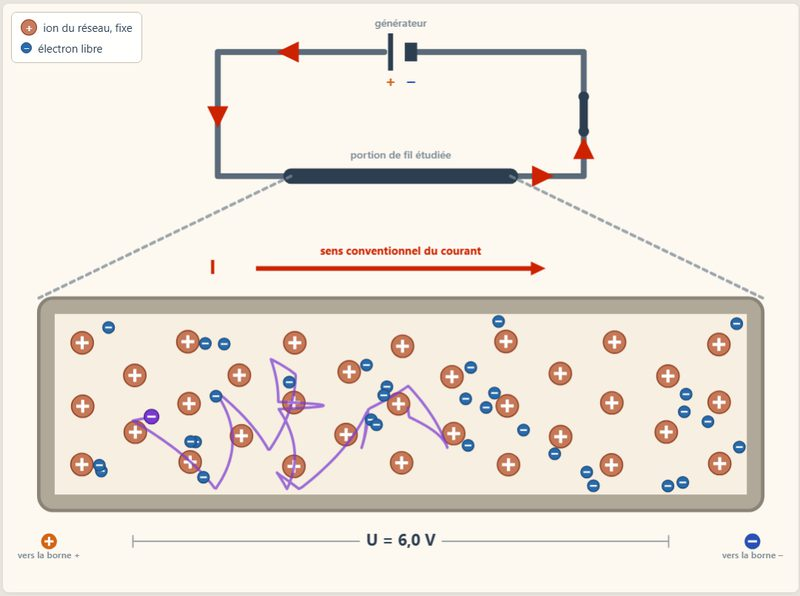
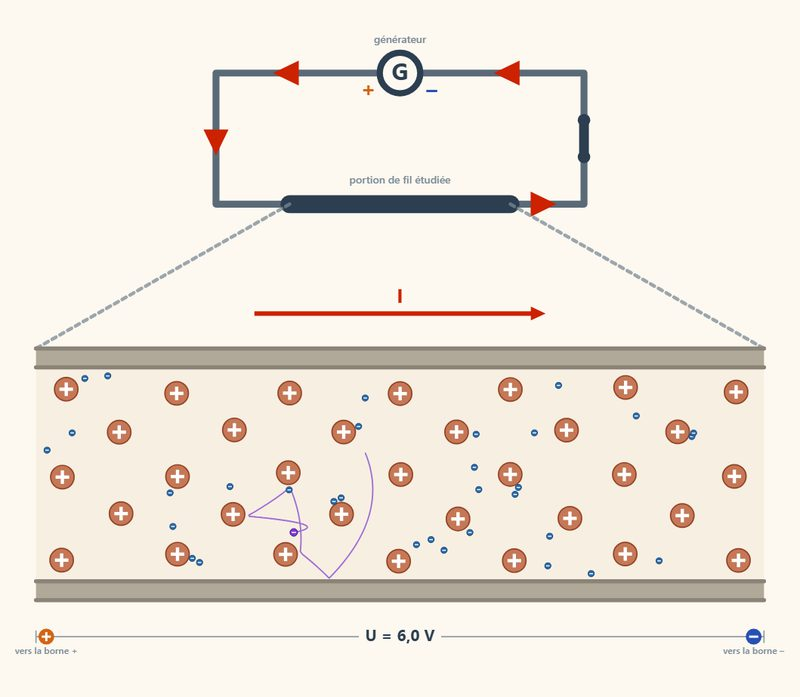
Accueil : miniature de Courant electrique remise a jour

diff --git a/index.html b/index.html
@@ -613,7 +613,7 @@
           </div>
           <div class="card-title">Courant électrique</div>
           <div class="card-preview">
-            <img src="assets/previews/courant.jpg" alt="Aperçu Courant électrique" width="800" height="596" loading="lazy" onerror="this.style.display='none'">
+            <img src="assets/previews/courant.jpg" alt="Aperçu Courant électrique" width="800" height="697" loading="lazy" onerror="this.style.display='none'">
           </div>
           <div class="card-desc">
             Modèle microscopique du courant : électrons libres agités dans un réseau d'ions positifs. Le générateur superpose à cette agitation un lent déplacement d'ensemble. Sens conventionnel, vitesse de dérive, trajectoire d'un électron suivi à la trace.
